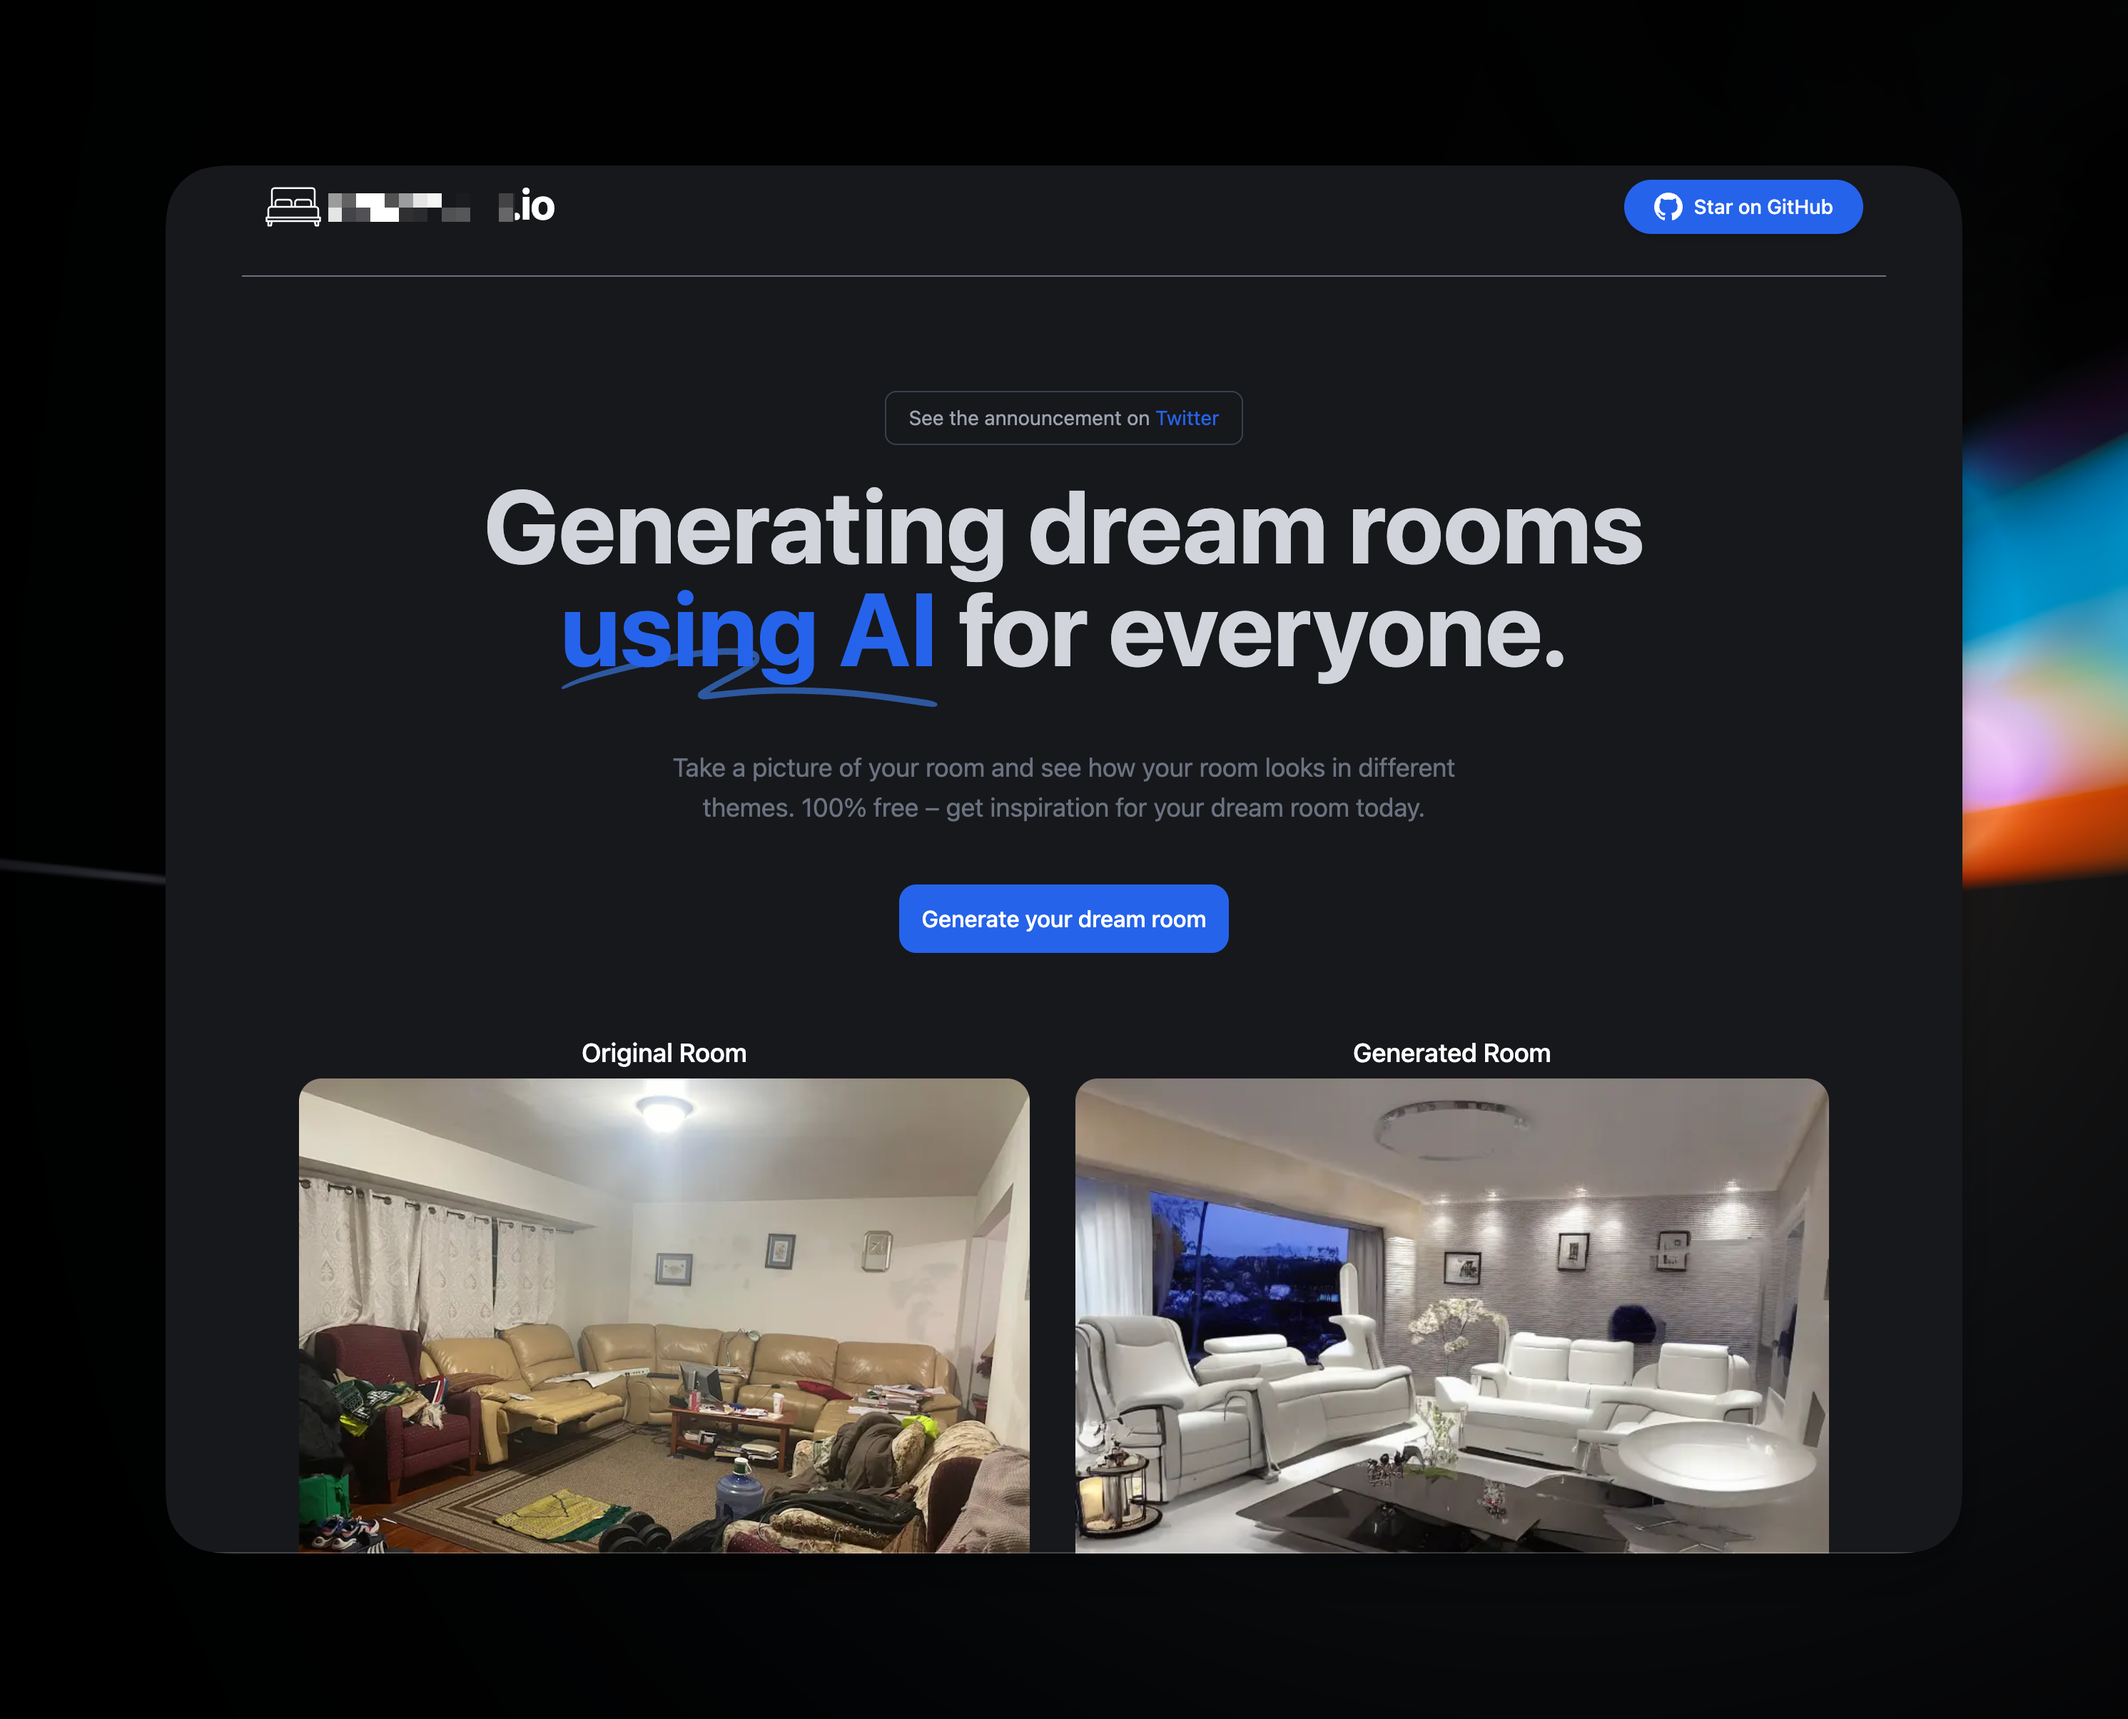
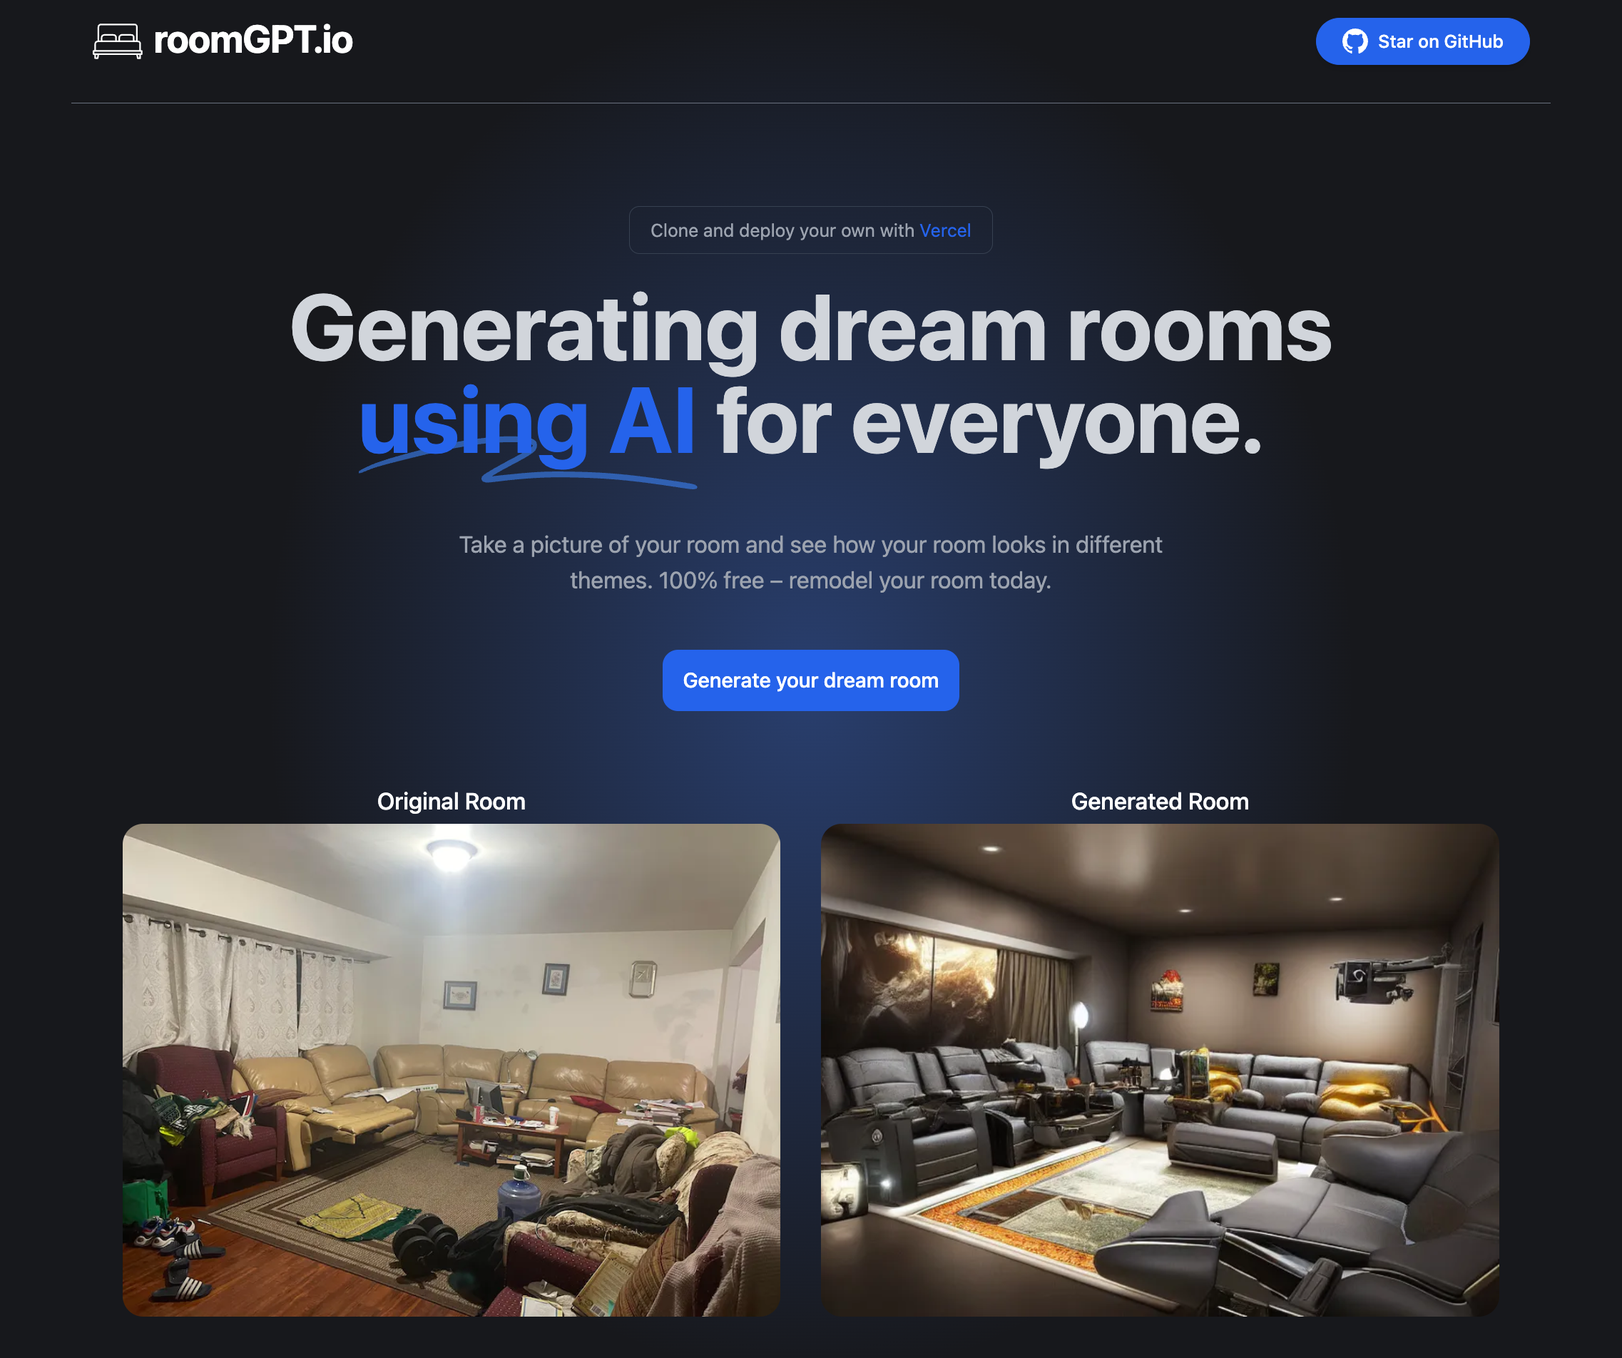
increased generations to 3 per day and replaced screenshot in README

diff --git a/pages/api/generate.ts b/pages/api/generate.ts
@@ -17,11 +17,11 @@ interface ExtendedNextApiRequest extends NextApiRequest {
   };
 }
 
-// Create a new ratelimiter, that allows 1 request per 24 hours
+// Create a new ratelimiter, that allows 3 requests per 24 hours
 const ratelimit = redis
   ? new Ratelimit({
       redis: redis,
-      limiter: Ratelimit.fixedWindow(1, "1440 m"),
+      limiter: Ratelimit.fixedWindow(3, "1440 m"),
       analytics: true,
     })
   : undefined;
@@ -41,7 +41,7 @@ export default async function handler(
       res
         .status(429)
         .json(
-          "We're temporarily limiting generations to 1 per day because of high traffic. For any questions, email hassan@hey.com"
+          "We're temporarily limiting generations to 3 per day because of high traffic. For any questions, email hassan@hey.com"
         );
       return;
     }

diff --git a/pages/dream.tsx b/pages/dream.tsx
@@ -122,7 +122,7 @@ const Home: NextPage = () => {
           <span className="font-bold text-gray-300">Note:</span> We're
           temporarily{" "}
           <span className="font-bold text-gray-300">
-            limiting generations to 1 per day
+            limiting generations to 3 per day
           </span>{" "}
           because of high traffic.
         </p>
